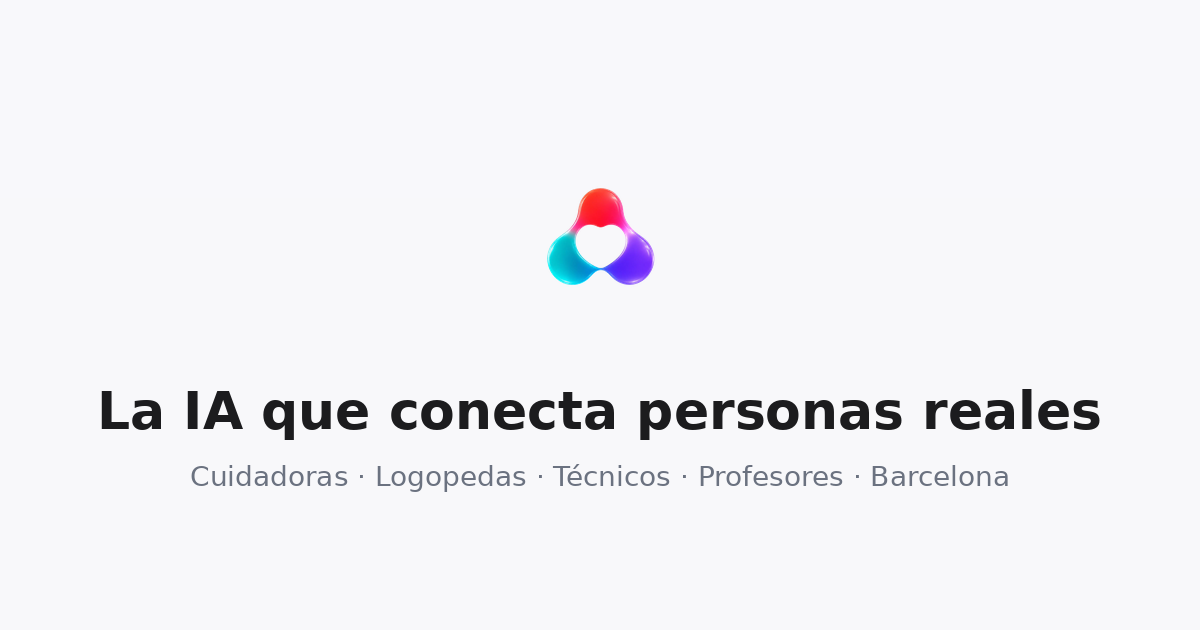
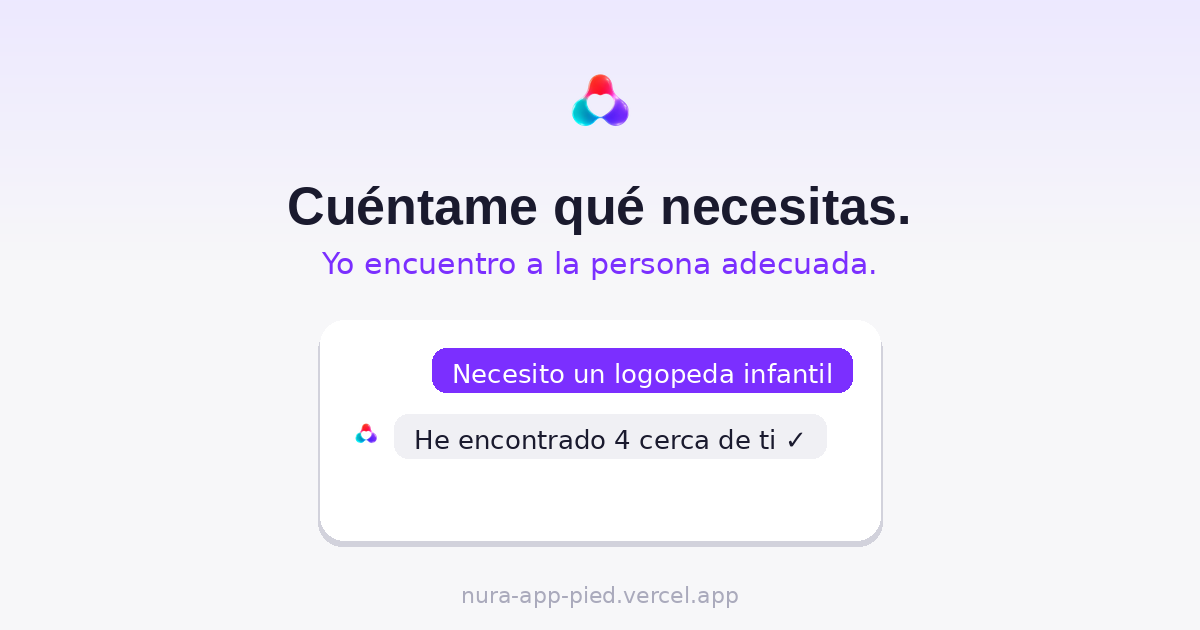
diseño: nueva imagen OG y meta tags — Cuéntame qué necesitas

diff --git a/index.html b/index.html
@@ -22,8 +22,8 @@
 
     <!-- Open Graph (WhatsApp, Telegram, Twitter previews) -->
     <meta property="og:type" content="website" />
-    <meta property="og:title" content="Nüra — La IA que conecta personas reales" />
-    <meta property="og:description" content="Cuéntale qué necesitas. En segundos encuentra al profesional verificado más adecuado cerca de ti." />
+    <meta property="og:title" content="Nüra — Cuéntame qué necesitas." />
+    <meta property="og:description" content="Yo encuentro a la persona adecuada. Cerca de ti, disponible ahora." />
     <meta property="og:image" content="/og-image.png" />
     <meta property="og:url" content="https://nura-app-pied.vercel.app" />
     <meta property="og:site_name" content="Nüra" />
@@ -31,8 +31,8 @@
 
     <!-- Twitter Card -->
     <meta name="twitter:card" content="summary_large_image" />
-    <meta name="twitter:title" content="Nüra — La IA que conecta personas reales" />
-    <meta name="twitter:description" content="Cuéntale qué necesitas. En segundos encuentra al profesional verificado más adecuado." />
+    <meta name="twitter:title" content="Nüra — Cuéntame qué necesitas." />
+    <meta name="twitter:description" content="Yo encuentro a la persona adecuada. Cerca de ti, disponible ahora." />
     <meta name="twitter:image" content="/og-image.png" />
 
     <!-- Icons -->